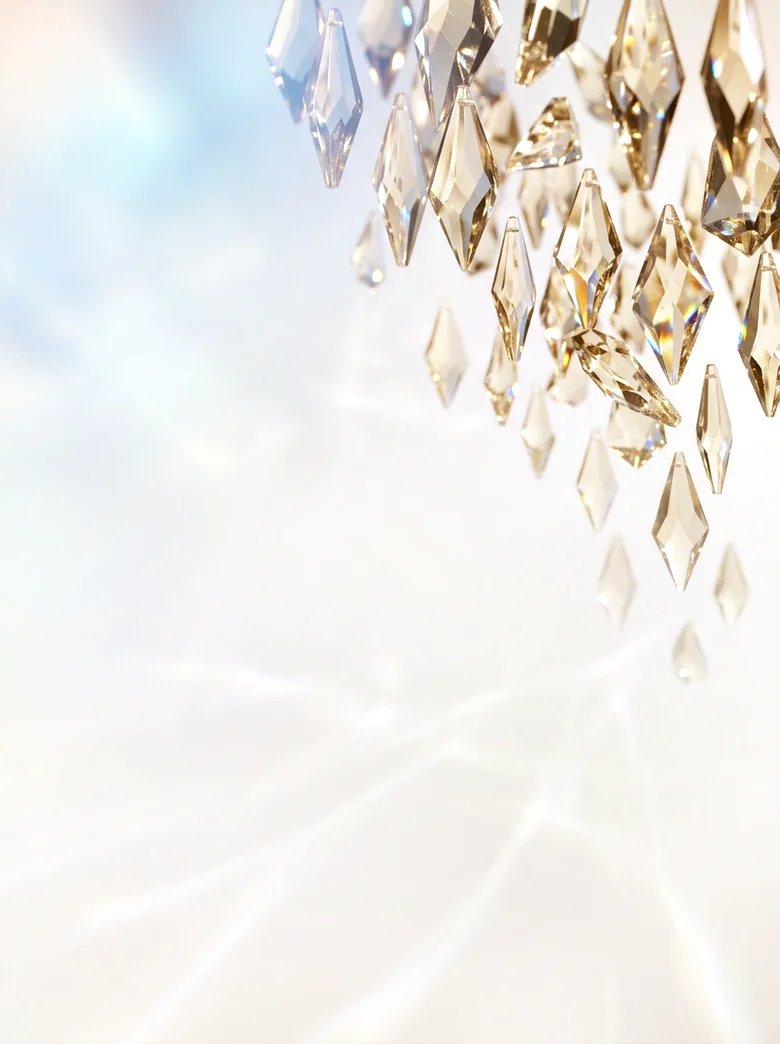
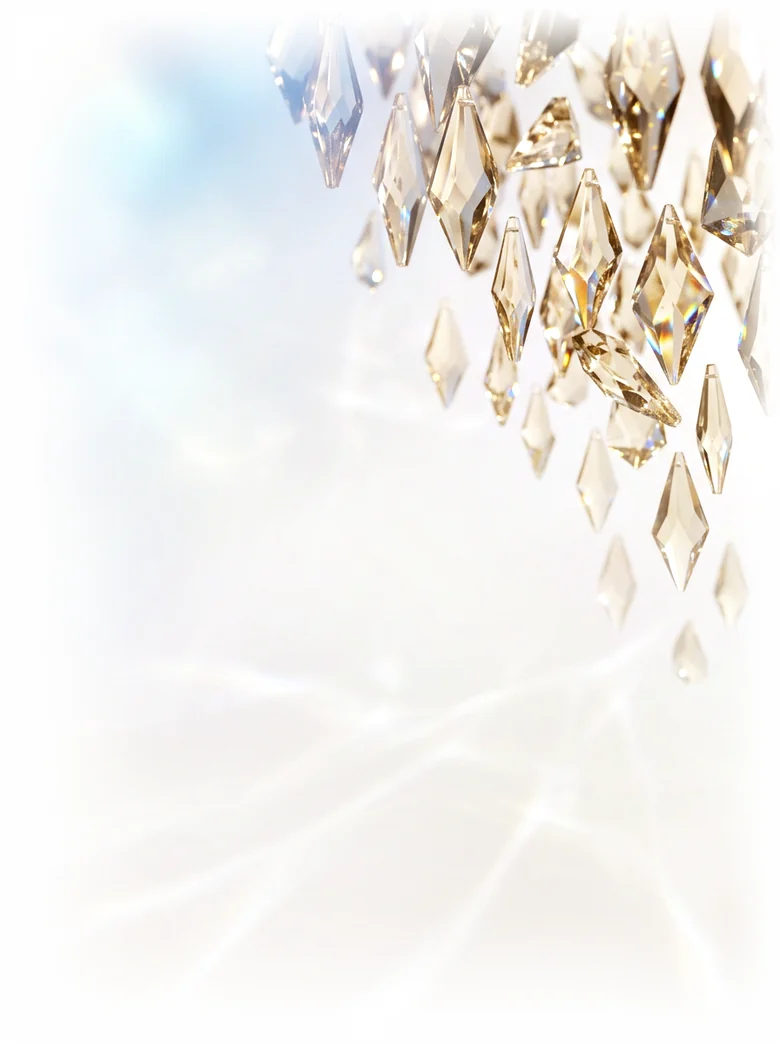
fix(ui): round 4 K1

diff --git a/frontend/src/styles/k1-scene.css b/frontend/src/styles/k1-scene.css
@@ -28,13 +28,17 @@
 :root {
   --fe-scene-paper: var(--color-obsidian, #F6F2EA);
   --fe-scene-gold: rgba(246, 231, 190, 0.6);
-  --fe-scene-ice: rgba(191, 224, 245, 0.35);
+  /* Лёд: светлый сиреневато-голубой и тише прежнего (было rgba(191,224,245,.35)). Голубой поверх кремовой бумаги даёт серо-голубую
+     «муть» (около #E6EAEC); при альфе .24 и сдвиге к сиреневому остаётся жемчужный свет без серого оттенка. */
+  --fe-scene-ice: rgba(204, 222, 250, 0.24);
   --fe-scene-rose: rgba(244, 198, 216, 0.2);
   --fe-scene-texture-opacity: 0.06;
   --fe-scene-hero-opacity: 0.85;
   --fe-scene-leak-opacity: 0.2;
   --fe-glint-color: rgba(255, 255, 255, 0.65);
   --fe-light-color: rgba(255, 255, 255, 0.55);
+  /* До монтирования сцены (первый кадр) страницу ещё красит body из index.css: ледяное сияние там тёплое, а не серо-голубое. */
+  --fe-glow-ice-bg: rgba(238, 230, 212, 0.3);
 }
 
 :root[data-theme="dark"], :root.dark {
@@ -202,10 +206,12 @@ html.fe-scene-on #root {
   mix-blend-mode: multiply;
   opacity: 0;
   transition: opacity 0.6s ease;
-  -webkit-mask-image: linear-gradient(90deg, transparent 36%, #000 66%), linear-gradient(180deg, #000 56%, transparent 96%);
-  -webkit-mask-composite: source-in;
-  mask-image: linear-gradient(90deg, transparent 36%, #000 66%), linear-gradient(180deg, #000 56%, transparent 96%);
-  mask-composite: intersect;
+  /* Маска со всех сторон (G1.1): слева и снизу линейные, плюс эллипс вокруг кластера (x 67-94 %, y 0-89 % кадра), так что
+     у кадра нет ни одного прямого края. Дополнительно сами кадры растворены в белый у краёв (R3/k1/flat.py). */
+  -webkit-mask-image: linear-gradient(90deg, transparent 36%, #000 66%), linear-gradient(180deg, #000 56%, transparent 96%), radial-gradient(ellipse 34% 64% at 80% 46%, #000 52%, transparent 100%);
+  -webkit-mask-composite: source-in, source-in;
+  mask-image: linear-gradient(90deg, transparent 36%, #000 66%), linear-gradient(180deg, #000 56%, transparent 96%), radial-gradient(ellipse 34% 64% at 80% 46%, #000 52%, transparent 100%);
+  mask-composite: intersect, intersect;
 }
 /* Страна: кластер в пустой середине hero, между заголовком и карточкой профиля (на 1440 центр около x 815). */
 .fe-scene-hero[data-fe-hero="country"] {
@@ -234,8 +240,8 @@ html.fe-scene-on #root {
     --fe-hero-frame-top: 40px;
     aspect-ratio: 780 / 1044;
     /* Слева на кадре холодное облако: оно уходит маской, остаются грани справа от заголовка. */
-    -webkit-mask-image: linear-gradient(90deg, transparent 26%, #000 52%), linear-gradient(180deg, #000 52%, transparent 92%);
-    mask-image: linear-gradient(90deg, transparent 26%, #000 52%), linear-gradient(180deg, #000 52%, transparent 92%);
+    -webkit-mask-image: linear-gradient(90deg, transparent 26%, #000 52%), linear-gradient(180deg, #000 52%, transparent 92%), radial-gradient(ellipse 46% 54% at 66% 32%, #000 50%, transparent 100%);
+    mask-image: linear-gradient(90deg, transparent 26%, #000 52%), linear-gradient(180deg, #000 52%, transparent 92%), radial-gradient(ellipse 46% 54% at 66% 32%, #000 50%, transparent 100%);
   }
 }
 
@@ -402,6 +408,9 @@ html[data-fe-lite="on"] .fe-scene-leak {
 /* Телефон: только каустики и герой. Каустики стоят, плавает один герой (не больше одной анимации в кадре). */
 @media (max-width: 767px) {
   .fe-scene__lamp { animation: none; }
+  /* Телефон: ледяное пятно слабее и не у левого края (раньше там читался холодный серо-голубой угол). */
+  .fe-scene { --fe-scene-ice: rgba(204, 222, 250, 0.14); }
+  .fe-scene__lamp--ice { left: 8vw; top: 34vh; width: 110vw; height: 80vh; }
 }
 
 @media print {

diff --git a/frontend/src/components/LightScene.jsx b/frontend/src/components/LightScene.jsx
@@ -198,10 +198,38 @@ function useSceneParallax(rootRef) {
   }, [rootRef]);
 }
 
+/**
+ * Любой неизвестный адрес из одного сегмента (`/abc`) похож на карточку страны, но это 404. На странице 404 корень
+ * `.z2-nf`: пока он в документе, героя страны не рисуем (иначе на 404 появлялся кадр граней с резкими краями).
+ * Проверка идёт на rAF и после мутаций DOM, пока адрес похож на страну.
+ */
+function useIsNotFoundPage(active, pathname) {
+  const [notFound, setNotFound] = useState(false);
+  useEffect(() => {
+    if (!active || typeof document === 'undefined') return undefined;
+    let frame = 0;
+    const check = () => {
+      frame = 0;
+      setNotFound(!!document.querySelector('.z2-nf'));
+    };
+    const schedule = () => { if (!frame) frame = window.requestAnimationFrame(check); };
+    schedule();
+    const mo = typeof MutationObserver === 'function' ? new MutationObserver(schedule) : null;
+    if (mo) mo.observe(document.body, { childList: true, subtree: true });
+    return () => {
+      if (mo) mo.disconnect();
+      if (frame) window.cancelAnimationFrame(frame);
+    };
+  }, [active, pathname]);
+  return active && notFound;
+}
+
 export default function LightScene() {
   const { pathname } = useLocation();
   const rootRef = useRef(null);
-  const kind = heroKindForPath(pathname, isReservedFirstSegment);
+  const pathKind = heroKindForPath(pathname, isReservedFirstSegment);
+  const isNotFound = useIsNotFoundPage(pathKind === 'country', pathname);
+  const kind = isNotFound ? null : pathKind;
 
   useEffect(() => applySceneMode(), []);
   useLightPointer();

diff --git a/frontend/src/styles/k2-brand.css b/frontend/src/styles/k2-brand.css
@@ -160,7 +160,7 @@ footer.fe-footer.fe-k2-footer {
   -webkit-backdrop-filter: none;
   color: #C7CBD6;
 }
-/* Верх: переход длиной 160 px над подвалом, один оттенок (прозрачный → сапфир) без цветного стопа: полосы нет. */
+/* Верх: переход длиной 160 px над подвалом, плавный, без резкого цветного стопа. */
 footer.fe-footer.fe-k2-footer::before {
   content: '';
   position: absolute;
@@ -168,7 +168,8 @@ footer.fe-footer.fe-k2-footer::before {
   left: 0;
   right: 0;
   height: 160px;
-  background: linear-gradient(180deg, rgba(14, 26, 51, 0) 0%, rgba(14, 26, 51, 0.04) 25%, rgba(14, 26, 51, 0.16) 50%, rgba(14, 26, 51, 0.46) 75%, #0E1A33 100%);
+  /* Тёплый переход (круг 4): прозрачный → шампань → тёплая тень → сапфир. Раньше сапфир .16-.46 по кремовой бумаге давал серо-синюю «дымку». */
+  background: linear-gradient(180deg, rgba(233, 215, 166, 0) 0%, rgba(233, 215, 166, 0.26) 34%, rgba(150, 126, 104, 0.3) 62%, rgba(27, 43, 77, 0.66) 86%, #0E1A33 100%);
   opacity: 1;
   pointer-events: none;
   z-index: 0;

diff --git a/frontend/src/styles/k1-scene.test.js b/frontend/src/styles/k1-scene.test.js
@@ -67,4 +67,18 @@ describe('k1-scene.css', () => {
     expect(lamp).toMatch(/mask-image:\s*radial-gradient\(closest-side/);
     expect(lamp).not.toMatch(/border-radius/);
   });
+
+  it('у кадра героя нет прямых краёв: эллиптическая маска на десктопе и на телефоне (G1.1)', () => {
+    const base = stripped.match(/\.fe-scene-hero \{[^}]*\}/)[0];
+    expect(base).toMatch(/mask-image:[^;]*radial-gradient\(ellipse/);
+    expect(base).toMatch(/mask-composite:\s*intersect, intersect/);
+    const phone = stripped.match(/@media \(max-width: 767px\) \{\s*\.fe-scene-hero,[\s\S]*?\n\}/)[0];
+    expect(phone).toMatch(/mask-image:[^;]*radial-gradient\(ellipse/);
+  });
+
+  it('лёд тёплый и тихий: альфа не выше .24, на телефоне .14 и пятно не у левого края', () => {
+    expect(stripped).toMatch(/--fe-scene-ice:\s*rgba\(204, 222, 250, 0\.24\)/);
+    expect(stripped).toMatch(/\.fe-scene \{ --fe-scene-ice: rgba\(204, 222, 250, 0\.14\); \}/);
+    expect(stripped).toMatch(/\.fe-scene__lamp--ice \{ left: 8vw;/);
+  });
 });

diff --git a/frontend/src/components/LightScene.component.test.jsx b/frontend/src/components/LightScene.component.test.jsx
@@ -82,6 +82,20 @@ describe('LightScene', () => {
     expect(other.container.parentElement.querySelector('.fe-scene-leak--bottom')).not.toBeNull();
   });
 
+  it('на странице 404 (адрес из одного сегмента, корень .z2-nf) героя страны нет', async () => {
+    const nf = document.createElement('div');
+    nf.className = 'z2-nf';
+    document.body.appendChild(nf);
+    try {
+      const view = scene('/no-such-country');
+      await settle();
+      expect(view.container.parentElement.querySelector('.fe-scene-hero')).toBeNull();
+      expect(view.container.parentElement.querySelector('.fe-scene-leak--top')).toBeNull();
+    } finally {
+      nf.remove();
+    }
+  });
+
   it('при экономии трафика (Save-Data) героя не монтирует', async () => {
     Object.defineProperty(window.navigator, 'connection', { value: { saveData: true }, configurable: true });
     try {
